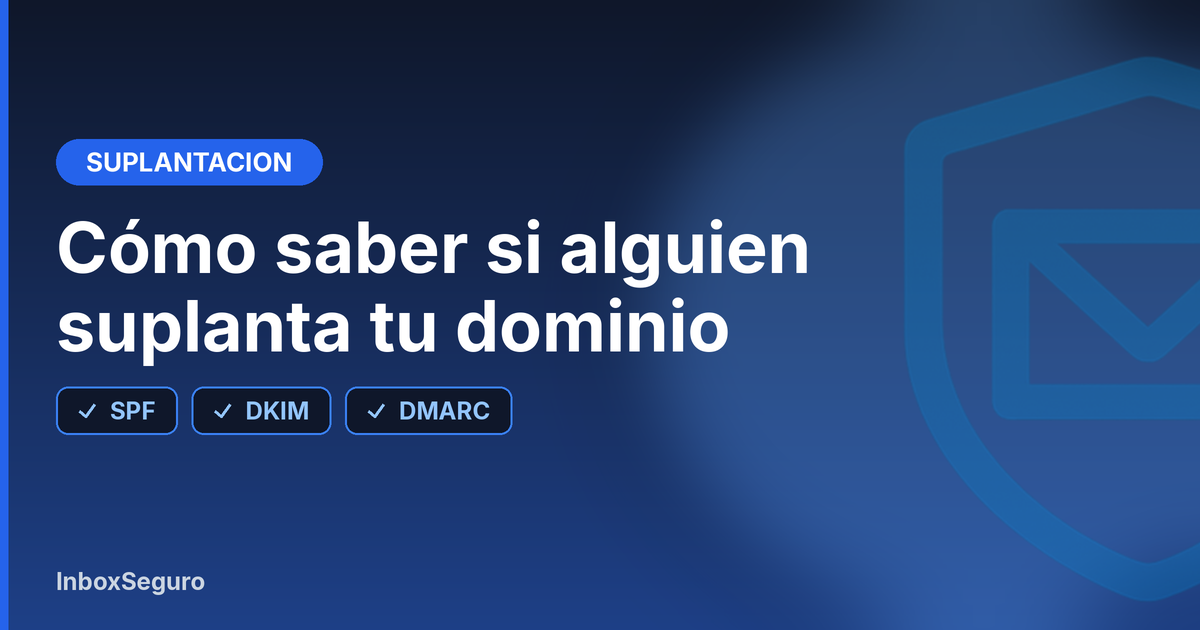
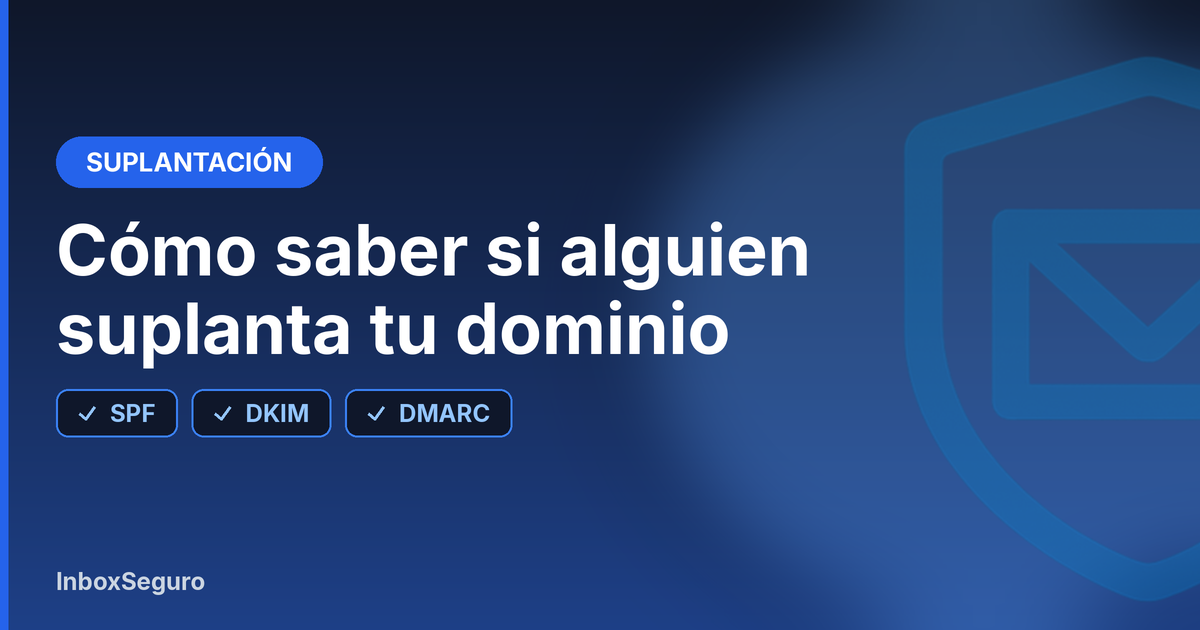
Portada: formato es-CL en tabla, hero con InboxScore primario, herramientas completas; blog: etiqueta Suplantación

diff --git a/index.html b/index.html
@@ -304,23 +304,18 @@
                 </p>
 
                 <div class="flex flex-col sm:flex-row flex-wrap justify-center gap-4 mb-6 items-center">
+                    <a href="/inboxscore"
+                        data-seo-event="cta_inboxscore"
+                        class="group relative w-full sm:w-auto text-center px-8 py-4 bg-brand-600 hover:bg-brand-700 text-white text-lg rounded-xl font-bold shadow-2xl shadow-blue-600/30 transition-all hover:-translate-y-1 overflow-hidden flex items-center justify-center gap-2">
+                        <span class="relative z-10 flex items-center gap-2">
+                            <i class="fa-solid fa-gauge-high"></i> Calcula el InboxScore de tu dominio, gratis
+                        </span>
+                    </a>
                     <a href="https://calendly.com/alfredo-inboxseguro/30min"
                         target="_blank" rel="noopener" data-seo-event="cta_demo_calendly"
                         onclick="if (typeof gtag==='function') gtag('event','schedule_demo');"
-                        class="group relative px-8 py-4 bg-brand-600 hover:bg-brand-700 text-white text-lg rounded-xl font-bold shadow-2xl shadow-blue-600/30 transition-all hover:-translate-y-1 overflow-hidden flex items-center justify-center gap-2">
-                        <span class="relative z-10 flex items-center gap-2">
-                            <i class="fa-regular fa-calendar-check"></i> Agendar demo
-                        </span>
-                    </a>
-                    <a href="/quien-puede-enviar-correos"
-                        data-seo-event="cta_sender_checker"
-                        class="px-8 py-4 bg-white/5 hover:bg-white/10 text-white text-lg font-semibold rounded-xl border border-white/10 shadow-lg transition-all hover:-translate-y-1 flex items-center justify-center gap-2 backdrop-blur-sm">
-                        Ver quién envía con mi correo
-                    </a>
-                    <a href="/inboxscore"
-                        data-seo-event="cta_inboxscore"
-                        class="px-8 py-4 bg-white/5 hover:bg-white/10 text-white text-lg font-semibold rounded-xl border border-white/10 shadow-lg transition-all hover:-translate-y-1 flex items-center justify-center gap-2 backdrop-blur-sm">
-                        <i class="fa-solid fa-gauge-high"></i> Calcula el InboxScore de tu dominio, gratis
+                        class="w-full sm:w-auto text-center px-8 py-4 bg-white/5 hover:bg-white/10 text-white text-lg font-semibold rounded-xl border border-white/20 shadow-lg transition-all hover:-translate-y-1 flex items-center justify-center gap-2 backdrop-blur-sm">
+                        <i class="fa-regular fa-calendar-check"></i> Agendar demo
                     </a>
                 </div>
                 <p class="mb-16 text-sm text-slate-400">Prueba de 14 días sin tarjeta al conectar tu dominio.</p>
@@ -404,12 +399,15 @@
                     <!-- Header -->
                     <div class="p-6 border-b border-slate-100 flex flex-col sm:flex-row items-start sm:items-center justify-between gap-4 bg-white">
                         <div>
-                            <h3 class="font-bold text-slate-900 text-lg mb-1">Sistemas de envío</h3>
+                            <div class="flex flex-wrap items-center gap-2 mb-1">
+                                <h3 class="font-bold text-slate-900 text-lg">Sistemas de envío</h3>
+                                <span class="px-2 py-0.5 rounded-full bg-slate-100 text-slate-500 border border-slate-200 font-bold uppercase text-[10px] leading-none tracking-wide">Datos de ejemplo</span>
+                            </div>
                             <p class="text-slate-500 text-sm">Quién envía con tu dominio, quién es responsable y qué requiere acción. Los nombres de proveedor se infieren por DNS inverso (PTR) y pueden no ser exactos.</p>
                         </div>
                         <div class="flex items-center gap-3 shrink-0">
                             <button id="advanced-toggle-btn" onclick="toggleAdvancedView()" class="text-blue-600 font-semibold text-sm cursor-pointer hover:underline focus:outline-none transition-colors">Vista avanzada</button>
-                            <span class="bg-slate-100 text-slate-600 w-6 h-6 flex items-center justify-center rounded-full text-xs font-bold">2</span>
+                            <span class="bg-slate-100 text-slate-600 w-6 h-6 flex items-center justify-center rounded-full text-xs font-bold">3</span>
                         </div>
                     </div>
                     
@@ -446,11 +444,11 @@
                                     <!-- Advanced Data -->
                                     <td class="adv-col hidden py-4 px-6 text-sm text-slate-600">Corporativo</td>
                                     <td class="adv-col hidden py-4 px-6 text-center">
-                                        <span class="inline-flex items-center px-2 py-0.5 rounded text-[10px] font-bold bg-emerald-50 text-emerald-600">192-271 /mes</span>
+                                        <span class="inline-flex items-center px-2 py-0.5 rounded text-[10px] font-bold bg-emerald-50 text-emerald-600">4.000–5.500 /mes</span>
                                     </td>
                                     <td class="adv-col hidden py-4 px-6 text-center">
-                                        <div class="font-bold text-slate-900">4,520</div>
-                                        <div class="text-[10px] text-slate-400">~5,000 /mes est.</div>
+                                        <div class="font-bold text-slate-900">4.520</div>
+                                        <div class="text-[10px] text-slate-400">~5.000 /mes est.</div>
                                     </td>
                                 </tr>
                                 <!-- Row 2 -->
@@ -470,10 +468,10 @@
                                     <!-- Advanced Data -->
                                     <td class="adv-col hidden py-4 px-6 text-sm text-slate-600">Marketing</td>
                                     <td class="adv-col hidden py-4 px-6 text-center">
-                                        <span class="inline-flex items-center px-2 py-0.5 rounded text-[10px] font-bold bg-slate-100 text-slate-600">5-20 /mes</span>
+                                        <span class="inline-flex items-center px-2 py-0.5 rounded text-[10px] font-bold bg-slate-100 text-slate-600">120.000–180.000 /mes</span>
                                     </td>
                                     <td class="adv-col hidden py-4 px-6 text-center">
-                                        <div class="font-bold text-slate-900">150,000</div>
+                                        <div class="font-bold text-slate-900">150.000</div>
                                         <div class="text-[10px] text-slate-400">~150k /mes est.</div>
                                     </td>
                                 </tr>
@@ -494,10 +492,10 @@
                                     <!-- Advanced Data -->
                                     <td class="adv-col hidden py-4 px-6 text-sm text-slate-400 italic">—</td>
                                     <td class="adv-col hidden py-4 px-6 text-center">
-                                        <span class="inline-flex items-center px-2 py-0.5 rounded text-[10px] font-bold bg-slate-100 text-slate-600">18-80 /mes</span>
+                                        <span class="inline-flex items-center px-2 py-0.5 rounded text-[10px] font-bold bg-slate-100 text-slate-600">18–80 /mes</span>
                                     </td>
                                     <td class="adv-col hidden py-4 px-6 text-center">
-                                        <div class="font-bold text-slate-900">0</div>
+                                        <div class="font-bold text-slate-900">50</div>
                                         <div class="text-[10px] text-slate-400">/mes est.</div>
                                     </td>
                                 </tr>
@@ -707,6 +705,40 @@
                         </div>
                         <a href="/dkim-checker" class="inline-flex items-center gap-2 text-sm font-bold text-teal-600 hover:text-teal-700 transition-colors mt-auto">
                             Probar DKIM &rarr;
+                        </a>
+                    </div>
+
+                    <!-- Card: Verificador de remitentes -->
+                    <div class="group relative bg-white border border-slate-200 rounded-3xl p-6 shadow-sm hover:shadow-xl transition-all duration-300 hover:-translate-y-1.5 flex flex-col justify-between h-full">
+                        <div class="absolute inset-0 bg-gradient-to-br from-blue-50/50 to-indigo-50/30 opacity-0 group-hover:opacity-100 rounded-3xl transition-opacity duration-300 -z-10"></div>
+                        <div>
+                            <div class="w-12 h-12 rounded-2xl bg-rose-50 text-rose-700 flex items-center justify-center mb-6 shadow-inner group-hover:scale-110 transition-transform duration-300">
+                                <i class="fa-solid fa-paper-plane text-xl"></i>
+                            </div>
+                            <h3 class="text-xl font-bold text-slate-900 mb-2">Verificador de remitentes</h3>
+                            <p class="text-slate-500 text-sm leading-relaxed font-light mb-6">
+                                Muestra qué servicios reconocibles, como Google Workspace o Amazon SES, aparecen en tu SPF, DKIM y MX. No confirma quién envía hoy.
+                            </p>
+                        </div>
+                        <a href="/quien-puede-enviar-correos" class="inline-flex items-center gap-2 text-sm font-bold text-rose-700 hover:text-brand-600 transition-colors mt-auto">
+                            Ver remitentes &rarr;
+                        </a>
+                    </div>
+
+                    <!-- Card: MX Lookup -->
+                    <div class="group relative bg-white border border-slate-200 rounded-3xl p-6 shadow-sm hover:shadow-xl transition-all duration-300 hover:-translate-y-1.5 flex flex-col justify-between h-full">
+                        <div class="absolute inset-0 bg-gradient-to-br from-blue-50/50 to-indigo-50/30 opacity-0 group-hover:opacity-100 rounded-3xl transition-opacity duration-300 -z-10"></div>
+                        <div>
+                            <div class="w-12 h-12 rounded-2xl bg-slate-100 text-slate-700 flex items-center justify-center mb-6 shadow-inner group-hover:scale-110 transition-transform duration-300">
+                                <i class="fa-solid fa-inbox text-xl"></i>
+                            </div>
+                            <h3 class="text-xl font-bold text-slate-900 mb-2">MX Lookup</h3>
+                            <p class="text-slate-500 text-sm leading-relaxed font-light mb-6">
+                                Consulta los registros MX públicos de tu dominio: hostname y prioridad. Indica dónde se recibe el correo, no quién lo envía.
+                            </p>
+                        </div>
+                        <a href="/mx-lookup" class="inline-flex items-center gap-2 text-sm font-bold text-slate-700 hover:text-brand-600 transition-colors mt-auto">
+                            Consultar MX &rarr;
                         </a>
                     </div>
 

diff --git a/blog/como-saber-si-suplantan-tu-dominio/index.html b/blog/como-saber-si-suplantan-tu-dominio/index.html
@@ -316,7 +316,7 @@
             <nav class="blog-breadcrumbs blog-breadcrumbs--on-dark" aria-label="Miga de pan">
                 <a href="/">Inicio</a><span>/</span><a href="/blog/">Blog</a><span>/</span>Cómo saber si alguien suplanta tu dominio
             </nav>
-            <span class="blog-chip blog-chip--on-dark">Suplantacion</span>
+            <span class="blog-chip blog-chip--on-dark">Suplantación</span>
             <h1 class="blog-article-h1">Cómo saber si alguien suplanta tu dominio</h1>
             <p class="blog-meta blog-meta--on-dark">
                 <time datetime="2026-10-13" data-updated="2026-10-13">

diff --git a/blog/index.html b/blog/index.html
@@ -308,7 +308,7 @@
                     >
                 </div>
                 <div class="blog-card-body">
-                    <span class="blog-chip">Suplantacion</span>
+                    <span class="blog-chip">Suplantación</span>
                     <h2 class="blog-card-title">Cómo saber si alguien suplanta tu dominio</h2>
                     <p class="blog-card-excerpt">¿Alguien envía correos falsos con el dominio de tu empresa? Aprende a detectarlo con reportes DMARC y a separar tus servicios legítimos de los falsos.</p>
                     <p class="blog-card-meta">

diff --git a/scripts/build_blog.py b/scripts/build_blog.py
@@ -59,6 +59,8 @@ CATEGORY_LABELS = {
     "gobernanza": "Gobernanza",
     "seguridad": "Seguridad",
     "guias": "Guías",
+    "suplantacion": "Suplantación",
+    "autenticacion": "Autenticación",
 }
 
 SITEMAP_STATIC: list[tuple[str, str, str, str]] = [
